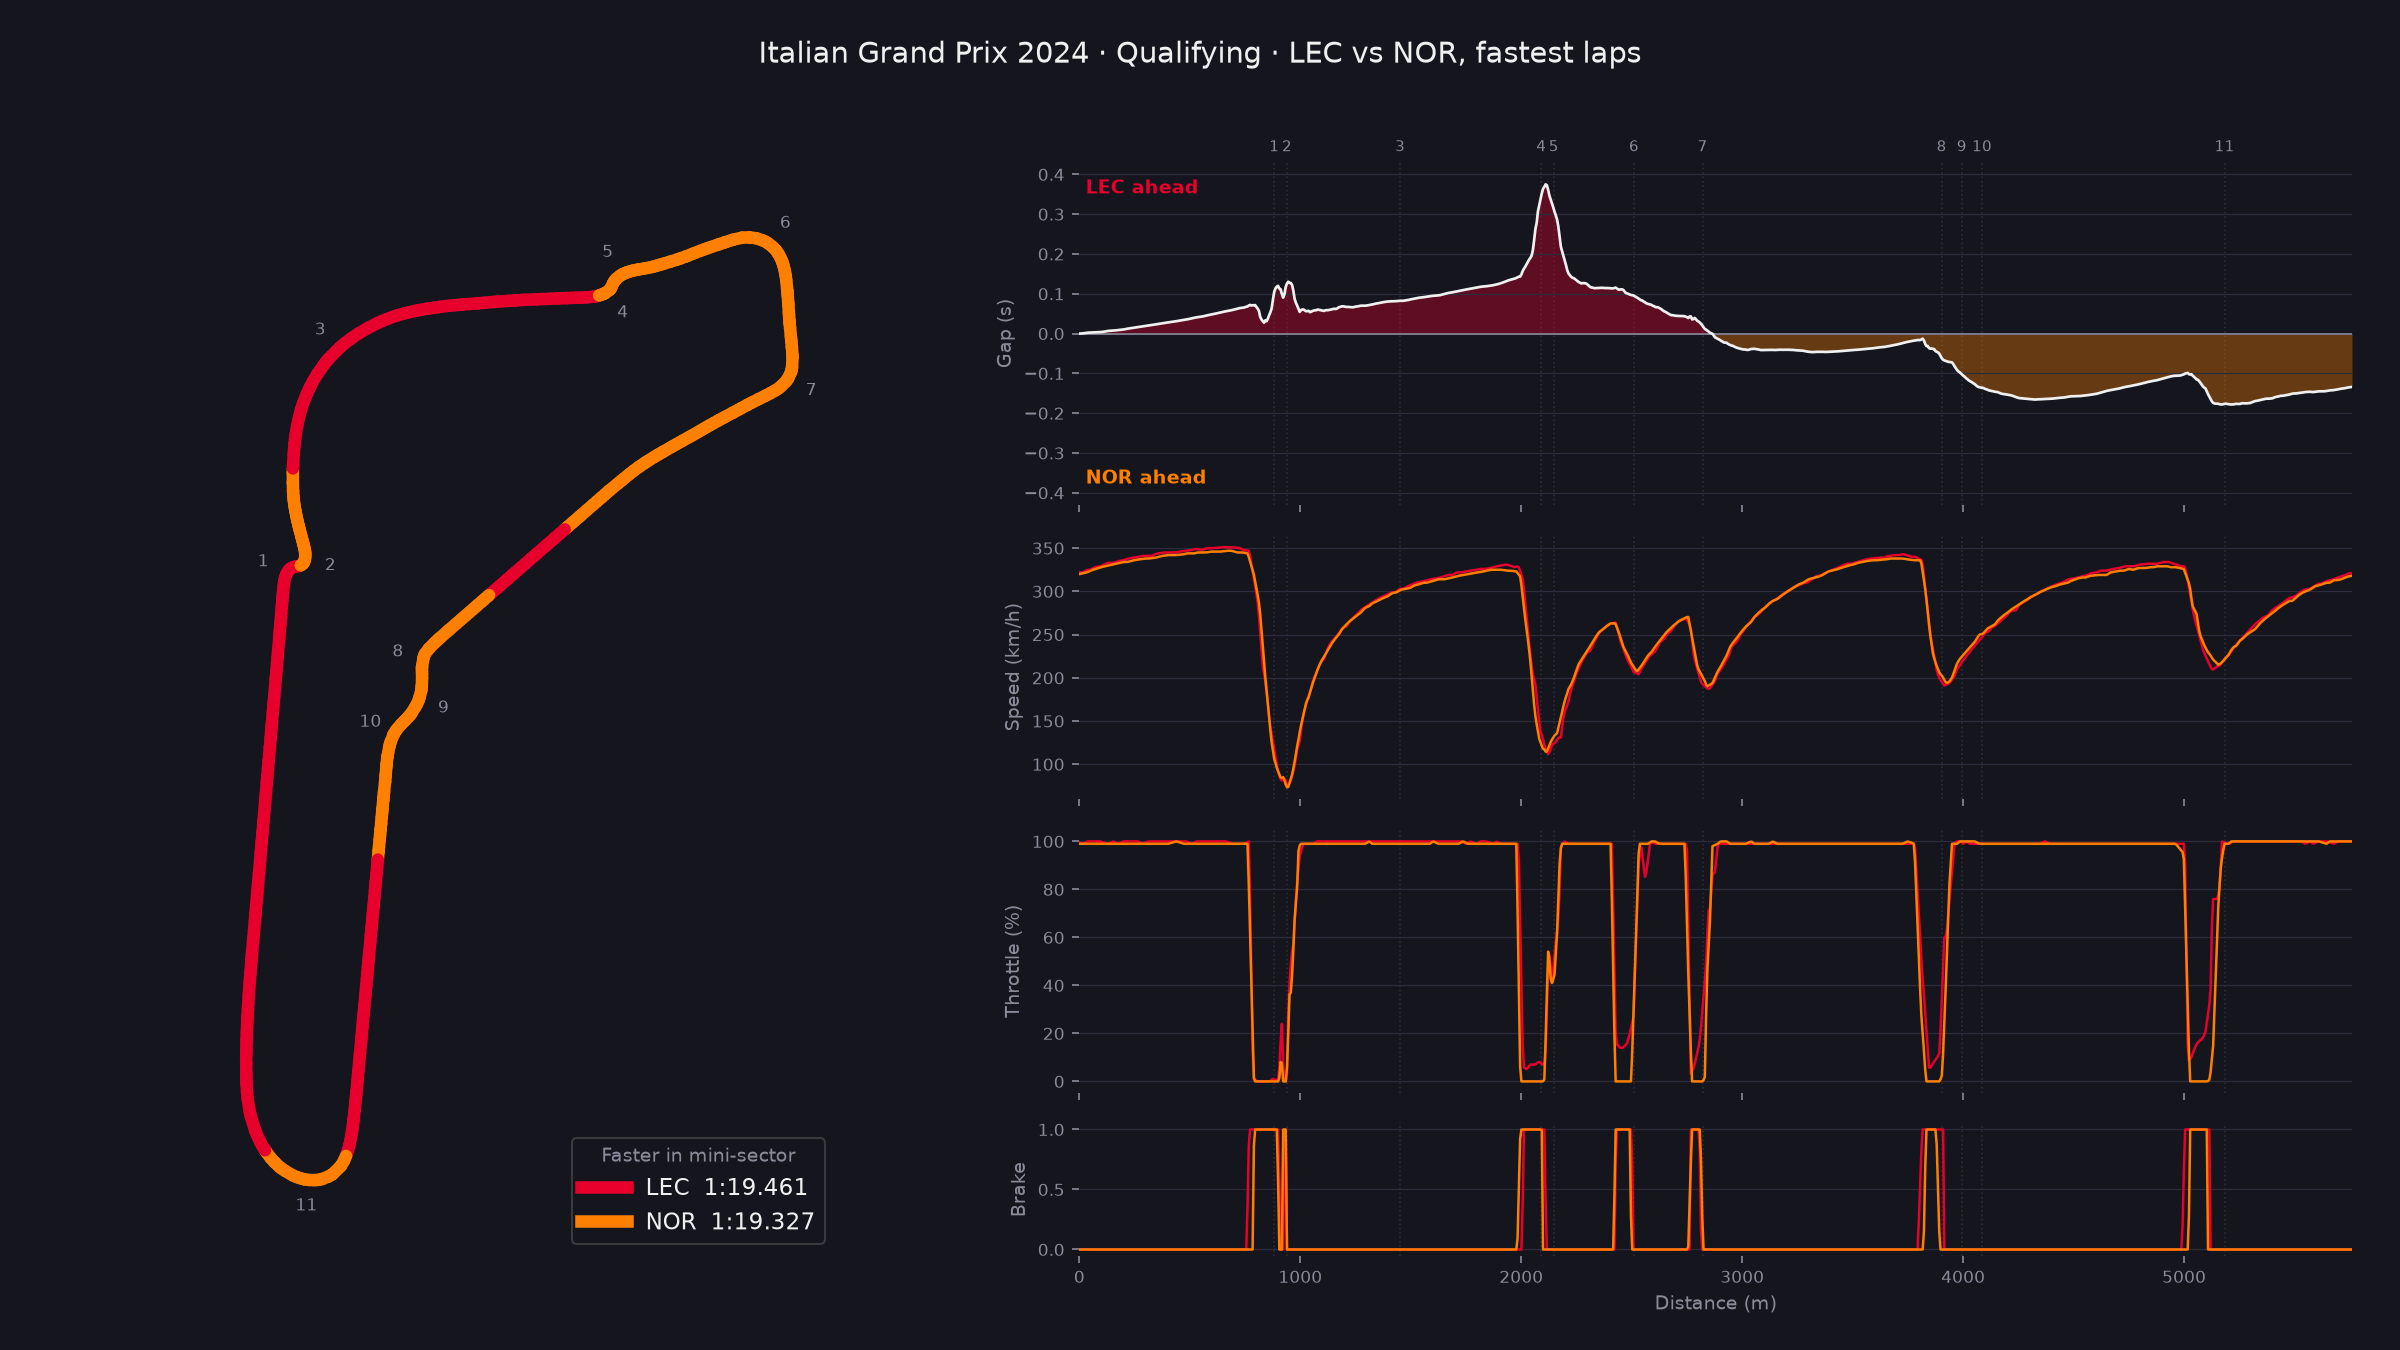
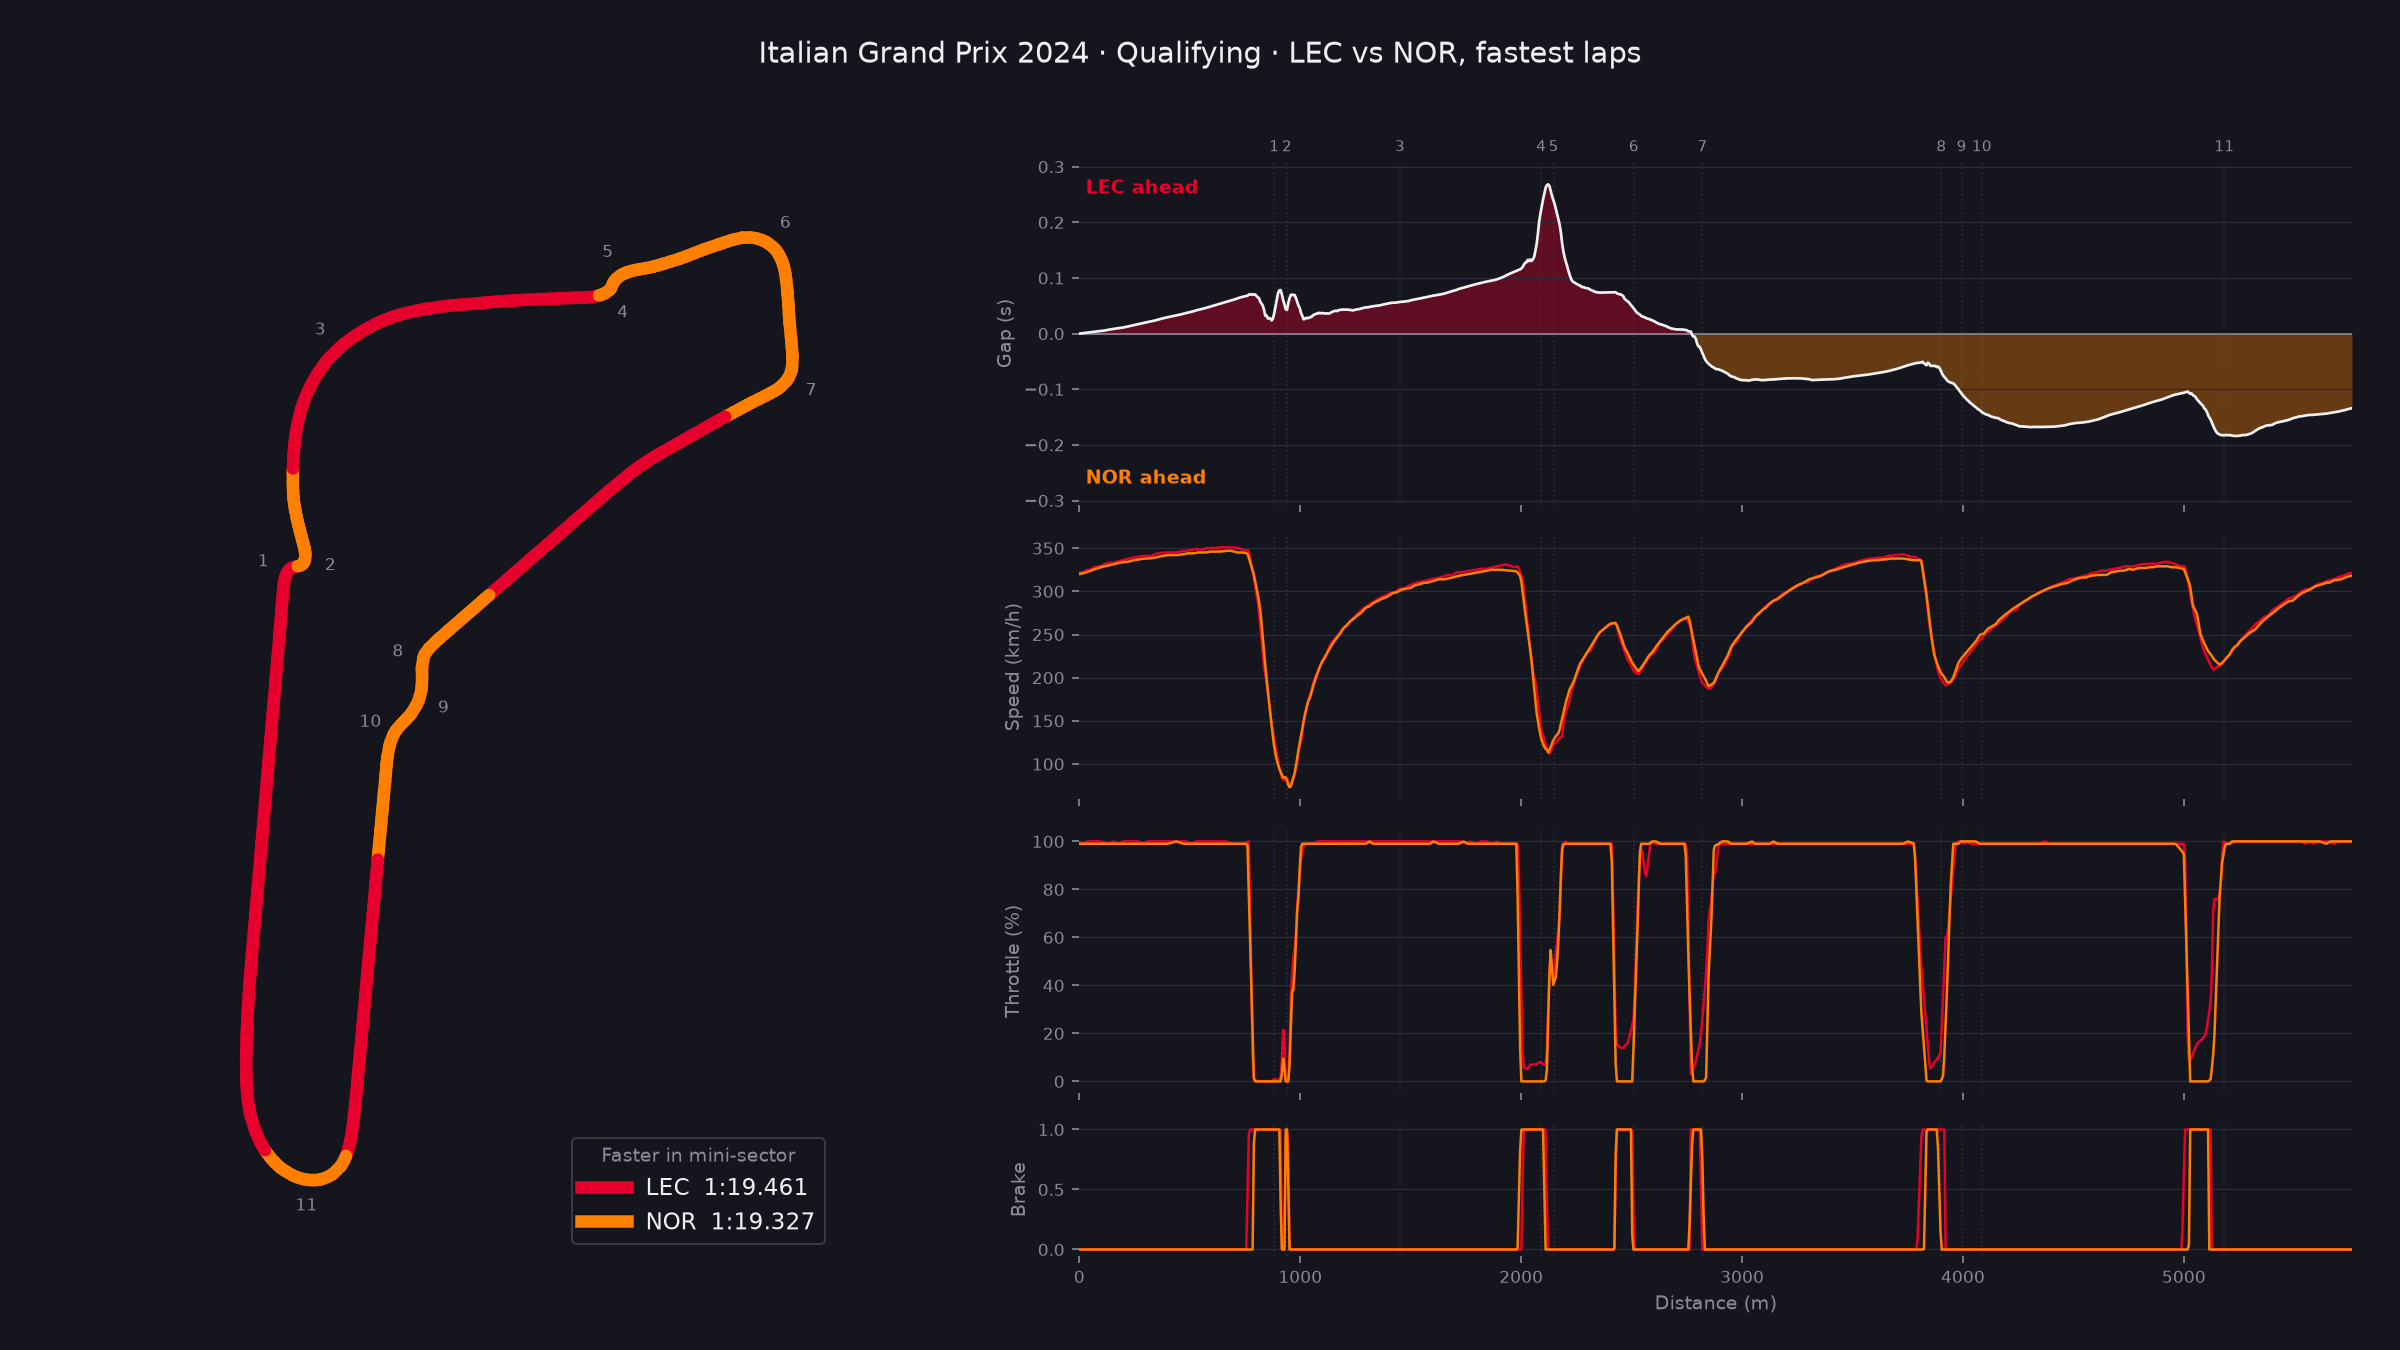
integrate lap distance with the trapezoid rule to reduce gap spikes
FastF1's Distance multiplies each speed reading by the time since the
previous one, which undercounts under braking and overcounts under
acceleration. Averaging each pair of readings cuts the worst gap-chart
spike at Monza 2024 (LEC vs NOR) from 0.18s to 0.135s; final gaps are
unchanged.

diff --git a/tests/test_compare.py b/tests/test_compare.py
@@ -1,7 +1,7 @@
 import numpy as np
 
-from f1_deltaline.compare import (resample, sector_index, sector_times, sector_winners,
-                                  time_delta)
+from f1_deltaline.compare import (integrate_distance, resample, sector_index, sector_times,
+                                  sector_winners, time_delta)
 
 
 def test_constant_speed_gives_equal_sector_times():
@@ -66,3 +66,22 @@ def test_resample_onto_lap_grid():
     distance = np.array([0.0, 500.0, 1000.0])
     speed = np.array([100.0, 200.0, 300.0])
     assert np.allclose(resample(distance, speed, np.array([0, 0.25, 1])), [100, 150, 300])
+
+
+def test_integrate_distance_constant_speed():
+    seconds = np.linspace(0, 10, 41)
+    distance = integrate_distance(np.full(41, 180.0), seconds)  # 180 km/h = 50 m/s
+    assert distance[0] == 0
+    assert np.isclose(distance[-1], 500)
+
+
+def test_integrate_distance_is_exact_under_steady_braking():
+    # Braking from 300 to 100 km/h over 4 s, sampled every 0.25 s like real car data.
+    seconds = np.arange(0, 4.25, 0.25)
+    speed = np.linspace(300, 100, len(seconds))
+    expected = (300 + 100) / 2 / 3.6 * 4  # average speed x time = 222.2 m
+    assert np.isclose(integrate_distance(speed, seconds)[-1], expected)
+
+    # FastF1's method (each reading x time since the previous one) comes up metres short.
+    rectangle = np.sum(speed[1:] / 3.6 * np.diff(seconds))
+    assert expected - rectangle > 5

diff --git a/f1_deltaline/compare.py b/f1_deltaline/compare.py
@@ -36,6 +36,21 @@ def resample(distance, values, grid):
     return np.interp(grid, lap_fraction(distance), np.asarray(values, dtype=float))
 
 
+def integrate_distance(speed_kmh, seconds):
+    """Distance in metres travelled at each sample, from speed and time.
+
+    Uses the average of each pair of speed readings (trapezoid rule). FastF1's
+    own Distance multiplies each reading by the time since the previous one,
+    which undercounts under braking and overcounts under acceleration. The two
+    drivers' readings fall at different moments, so their errors differ and
+    show up as false spikes in the gap chart at slow corners.
+    """
+    speed = np.asarray(speed_kmh, dtype=float) / 3.6
+    seconds = np.asarray(seconds, dtype=float)
+    steps = (speed[1:] + speed[:-1]) / 2 * np.diff(seconds)
+    return np.concatenate([[0.0], np.cumsum(steps)])
+
+
 def time_delta(distance_a, time_a, distance_b, time_b, grid):
     """Running gap in seconds at each grid point: B's elapsed time minus A's.
 

diff --git a/f1_deltaline/data.py b/f1_deltaline/data.py
@@ -4,6 +4,8 @@ from pathlib import Path
 
 import fastf1
 
+from f1_deltaline.compare import integrate_distance
+
 CACHE_DIR = Path(__file__).resolve().parent.parent / ".fastf1-cache"
 
 
@@ -28,7 +30,10 @@ def lap_telemetry(lap):
     tel = lap.get_telemetry()
     tel["Seconds"] = tel["Time"].dt.total_seconds()
     tel["Brake"] = tel["Brake"].astype(float)
-    return tel[["Distance", "X", "Y", "Seconds", "Speed", "Throttle", "Brake"]].dropna()
+    tel = tel[["X", "Y", "Seconds", "Speed", "Throttle", "Brake"]].dropna()
+    # Replace FastF1's Distance with a more accurate one; see integrate_distance.
+    tel["Distance"] = integrate_distance(tel["Speed"], tel["Seconds"])
+    return tel
 
 
 def corners(session):

diff --git a/README.md b/README.md
@@ -50,12 +50,23 @@ the first load of a session is slow and later loads are fast.
    along the lap. The gap at each point is B's elapsed time minus A's, so where
    the line rises A is gaining and where it falls B is.
 
+### Lap distance
+
+Lap distance is calculated from speed and time using the trapezoid rule (the
+average of each pair of speed readings). FastF1's built-in `Distance` instead
+multiplies each reading by the time since the previous one, which comes up
+several metres short under braking and long under acceleration. Because the
+two drivers' readings fall at different moments, those errors differ and show
+up as false spikes in the gap chart at slow corners. Switching to the trapezoid
+rule cut the worst spike at Monza 2024 (LEC vs NOR) from 0.18s to 0.135s.
+
 ### Known limitation
 
-Lap distance is calculated from each car's speed, so the two laps can drift
-slightly out of line, especially in heavy braking zones. This shows up as short
-spikes in the gap chart (e.g. into a chicane) that aren't real time gained or
-lost. The overall trend and the gap at the finish line are accurate.
+Some short spikes remain in slow corners (e.g. Monza turns 4–5). Car data
+arrives about four times a second, so at 300 km/h a car travels ~20 m between
+readings. Part of what's left may be real (different braking points and
+minimum speeds) and part is this sampling limit; the data can't fully tell them
+apart. The overall trend and the gap at the finish line are accurate.
 
 ## Tests
 
